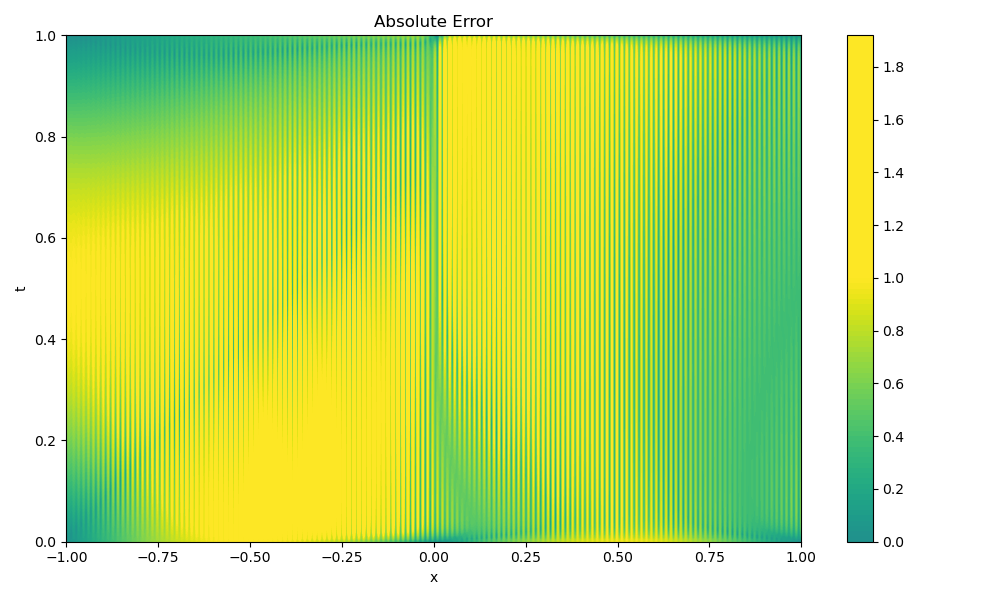
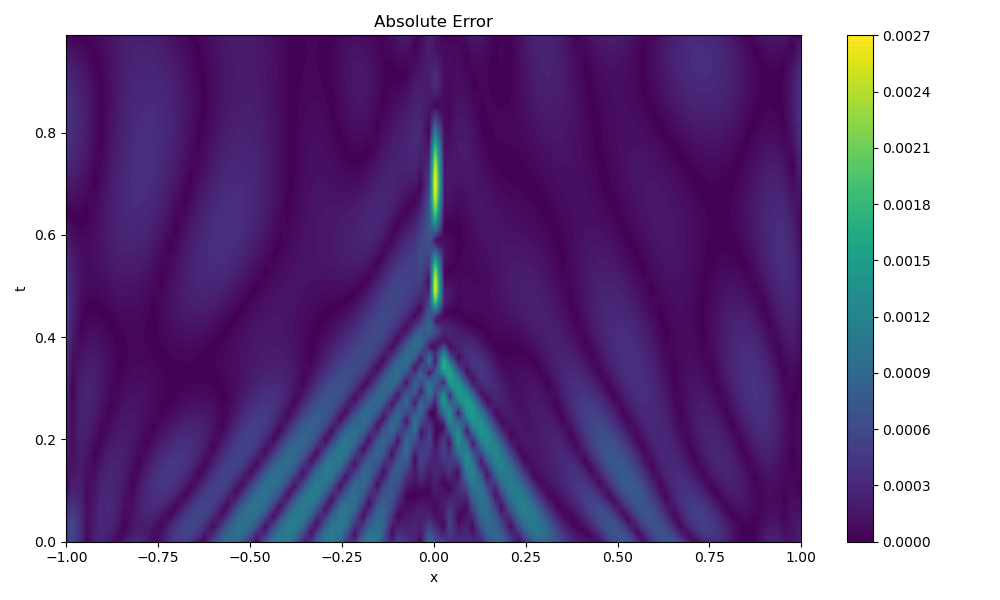
l2 error 5e-4

diff --git a/moe_module/moe.py b/moe_module/moe.py
@@ -127,14 +127,15 @@ class Gating(nn.Module):
     def __init__(self,input_size,num_experts,noise_epsilon=1e-6,gamma=1,R=1):
         super(Gating, self).__init__()
         self.net=nn.Sequential(
-            nn.Linear(input_size,num_experts),
+            nn.Linear(input_size,num_experts*5),
             nn.Tanh(),
-            nn.Linear(num_experts,num_experts),
+            nn.Linear(num_experts*5,num_experts),
             #[I,H]
         )
         self.noisy=nn.Linear(input_size,num_experts)
         self.softplus = nn.Softplus()
         self.noise_epsilon=noise_epsilon
+        
         
 
                 
@@ -196,8 +197,12 @@ class MoE(nn.Module):
         self.softmax = nn.Softmax(dim=-1)
         self.gating_network = Gating(self.input_size,self.num_experts)
     
-    def smoothing(self):
+    def smoothing(self,step,step_lb):
         self.smooth = not self.smooth
+        if step >=step_lb:
+            self.smooth = True
+        # for p in self.gating_network.parameters():
+        #     p.requires_grad = self.smooth
         
     def _prob_in_top_k(self, clean_values, noisy_values, noise_stddev, noisy_top_values):
         """Helper function to NoisyTopKGating.
@@ -264,10 +269,11 @@ class MoE(nn.Module):
     def topkGating(self,x,train):
             ## topk--> softmax
             noisy,clean,noisy_stddev=self.gating_network(x,train)
-            
-            values, indices= torch.topk(noisy,k=self.k,dim=-1) 
-            # top_logits,_=torch.topk(noisy,k=self.k+1,dim=-1) #values: [k,] indices: [k,] zhou's mode
+            values=noisy
             values=self.softmax(values)
+            values, indices= torch.topk(values,k=self.k,dim=-1) 
+            # top_logits,_=torch.topk(noisy,k=self.k+1,dim=-1) #values: [k,] indices: [k,] zhou's mode
+            # values=values/(values.sum(1, keepdim=True) + 1e-8)  # normalization
             # values= values / (values.sum(1, keepdim=True) + 1e-8) 
             zeros= torch.zeros_like(noisy, requires_grad=True)
             gates=zeros.scatter(1, indices, values)
@@ -289,8 +295,8 @@ class MoE(nn.Module):
             
             return gates,load
         
-    def soft_topk(self,s: torch.Tensor,k: int,tau1: float = 5e-2,tau2: float = 5e-2):
-        
+    def soft_topk(self,s: torch.Tensor,k: int,tau1: float = 5e-2,tau2: float = 1e-1):
+        s=F.softmax(s,dim=-1)
         diff = torch.unsqueeze(s,-1) - torch.unsqueeze(s,-2)
         sigma = torch.sigmoid(-diff / tau1)
         row_sum = sigma.sum(dim=-1) - 0.5
@@ -299,7 +305,8 @@ class MoE(nn.Module):
         a = torch.sigmoid((k+eps - r_tilde) / tau2)     
 
         a=a*s
-        a=F.softmax(a,dim=-1)
+        # a=a/(a.sum(1, keepdim=True) + 1e-8)
+        
 
         return a
     def forward(self,x,train):
@@ -419,18 +426,18 @@ class MOE_modify_beta(nn.Module):
         self.register_buffer("lb", torch.as_tensor(lb))
         self.register_buffer("ub", torch.as_tensor(ub))
         # === 2⃣ Beta 网络（可调 depth） ===
-        layers = []
-        in_dim = input_size
-        # 如果 depth = 1，则只有一层线性映射
-        for i in range(2):
-            layers.append(nn.Linear(in_dim, hidden_size))
-            layers.append(nn.ReLU())
-            in_dim = hidden_size
+        # layers = []
+        # in_dim = input_size
+        # # 如果 depth = 1，则只有一层线性映射
+        # for i in range(1):
+        #     layers.append(nn.Linear(in_dim, hidden_size))
+        #     layers.append(nn.ReLU())
+        #     in_dim = hidden_size
 
-        layers.append(nn.Linear(hidden_size, hidden_size,bias=False))
-        self.Beta = nn.Sequential(*layers)
+        # layers.append(nn.Linear(hidden_size, hidden_size,bias=False))
+        # self.Beta = nn.Sequential(*layers)
         
-        # self.linear=nn.Linear(hidden_size, output_size)
+        self.linear=nn.Linear(hidden_size, output_size)
         
 
         
@@ -462,9 +469,9 @@ class MOE_modify_beta(nn.Module):
     def forward(self, x):
         x = 2.0 * (x - self.lb) / (self.ub - self.lb) - 1.0
         output,loss1=self.model(x, self.training)
-        beta=self.Beta(x)
-        output=(output*beta).sum(dim=1,keepdim=True)
-        # output=self.linear(output)
+        # beta=self.Beta(x)
+        # output=(output*beta).sum(dim=1,keepdim=True)
+        output=self.linear(output)
         loss=loss1
         return output,loss
     

diff --git a/main.py b/main.py
@@ -43,26 +43,35 @@ def pde_residual(model, x_t, nu, moe_training=True):
 
     r = u_t + u * u_x - nu * u_xx
     return r
+
 @log_with_time
 def train_loop(X_init, X_bnd, X_f, X_total, u_init, model,loss_fn, optim, args,steps=100,moe_training=True,writer=None):
     scheduler = StepLR(optim, step_size=100, gamma=args.lr_decay)
     activation=get_activation(args.activation)
     aux_loss,init_loss,bnd_loss,f_loss= 0,0,0,0
     total_loss_list,total_rank_list,total_useless_expert_rank=[],[],[]
-    for step in range(steps):
+    step_count=args.smooth_steps
+    for step in range(steps): 
+        if moe_training :
+            step_count -=1
+            if model.moe.smooth and step_count<=0:
+                model.moe.smoothing(step,args.smooth_lb)
+                step_count=args.smooth_steps
+            elif step_count<=0 :
+                model.moe.smoothing(step,args.smooth_lb)
+                step_count=args.smooth_steps
         if step % 500 == 0:
             eval_model(step,X_init, X_bnd, X_f, X_total, u_init, model, loss_fn,moe_training,args,writer)
             if moe_training:
                 gates_image(model,args.X_test,writer)
-                beta_image(model,args.X_test,writer)
-                if step >0: 
-                    model.moe.smoothing()
+                # beta_image(model,args.X_test,writer)
+
                     
                     # model.frozen_beta()
             #update points
-            args.seed=args.seed+step
-            torch.manual_seed(args.seed)
-            X_init,X_bnd,X_f,X_total,u_init=_init_data_dim1(args.init_func,args.x_interval,args.t_interval,args.x_num_samples,args.t_num_samples,args.device,args)
+            # args.seed=args.seed+step
+            # torch.manual_seed(args.seed)
+            # X_init,X_bnd,X_f,X_total,u_init=_init_data_dim1(args.init_func,args.x_interval,args.t_interval,args.x_num_samples,args.t_num_samples,args.device,args)
         
         optim.zero_grad()
         # 确保在训练模式
@@ -164,7 +173,7 @@ def eval_model(step,X_init, X_bnd, X_f, X_total, u_init, model, loss_fn,moe_trai
     loss = args.loss_coef_init *init_loss + args.loss_coef_bnd * bnd_loss + f_loss
 
     if moe_training:
-        tqdm.write("MoE_Model Evaluation Results - loss: {:.8f}, aux_loss: {:.8f}".format(loss.item(), aux_loss.item()))
+        tqdm.write("MoE_Model Evaluation Results - step : {:1d}loss: {:.8f}, aux_loss: {:.8f}".format(step,loss.item(), aux_loss.item()))
     else:
         tqdm.write("MLP_Model Evaluation Results - loss: {:.8f}".format(loss.item()))
 
@@ -262,6 +271,7 @@ def main():
     loss_fn =get_loss_fn(args.lossfn)
     
     model_moe=MOE_modify_beta(args.input_size, args.num_experts,args.hidden_size,args.depth, args.output_size,args.k,args.loss_coef, activation).to(args.device)
+    model_moe.load_state_dict(torch.load('saved_model/model_moe20251107_053752.pth'))
     optimizer = get_optimizer(args.optim,model_moe.parameters(), lr=args.lr)
     model,total_loss_list_moe,rank_list_moe,total_useless_expert_rank_moe=train_loop(data_X_init,data_X_bnd,data_X_f,data_X_total,data_u_init,\
         model_moe,loss_fn, optimizer, args,args.opt_steps,moe_training=True, writer=writer)
@@ -274,6 +284,7 @@ def main():
     #     model_mlp,loss_fn, optimizer_mlp, args,args.opt_steps,moe_training=False,writer=writer)
     # eval_model(args.opt_steps+args.lbfgs_steps,data_X_init,data_X_bnd,data_X_f,data_X_total,data_u_init, model_mlp, loss_fn,moe_training=False,args=args,writer=writer)
     # plot_dual_axis(np.array(total_loss_list_mlp),None,args.opt_steps+args.lbfgs_steps,"mlp")
+
     
 
 if __name__ == "__main__":

diff --git a/moe_module/utils.py b/moe_module/utils.py
@@ -16,23 +16,23 @@ from data import *
 def parse_args():
     parser = argparse.ArgumentParser(description="Train a Mixture-of-Experts model.")
     parser.add_argument("--epochs", type=int, default=10, help="Number of training epochs.")
-    parser.add_argument("--lr", type=float, default=8e-3, help="Learning rate.")
+    parser.add_argument("--lr", type=float, default=2e-3, help="Learning rate.")
     parser.add_argument("--device", type=str, default="cuda:5" if torch.cuda.is_available() else "cpu", help="Device to train on.")    
     parser.add_argument("--input_size", type=int, default=2,help="Input size (funcion approximation x) ")
     parser.add_argument("--output_size", type=int, default=1,help="Output size (funcion approximation y=u(x)) ")
-    parser.add_argument("--num_experts", type=int, default=4,help="Number of experts")
+    parser.add_argument("--num_experts", type=int, default=2,help="Number of experts")
     parser.add_argument("--hidden_size", type=int, default=10,help="Hidden size of each expert")
-    parser.add_argument("--depth", type=int, default=5,help="Depth of the MOE model")
+    parser.add_argument("--depth", type=int, default=10,help="Depth of the MOE model")
     parser.add_argument("--lossfn", type=str, default="mse", help="Loss function.")
     parser.add_argument("--optim", type=str, default="adam")
-    parser.add_argument("--opt_steps", type=int, default=30000)
+    parser.add_argument("--opt_steps", type=int, default=100000)
     parser.add_argument("--activation", type=str, default="tanh", help="activation_function")
     parser.add_argument("--init_func", type=str, default="-sin(pi*x)", help="function")
     parser.add_argument("--x_interval", type=str, default="[-1,1]")
     parser.add_argument("--t_interval", type=str, default="[0,1]")
     parser.add_argument("--x_num_samples", type=int, default=200)
     parser.add_argument("--t_num_samples", type=int, default=100)
-    parser.add_argument("--k", type=int, default=2,help="top-k selection")
+    parser.add_argument("--k", type=int, default=1,help="top-k selection")
     parser.add_argument("--loss_coef", type=float, default=1)
     parser.add_argument("--x_integral_sample", type=int, default=200, help="x_integral_sample")
     parser.add_argument("--t_integral_sample", type=int, default=100, help="t_integral_sample")
@@ -45,9 +45,11 @@ def parse_args():
     parser.add_argument("--vxn",type=int,default=100)
     parser.add_argument("--gt",type=torch.Tensor,default=None,help="ground truth")
     parser.add_argument("--X_test",type=torch.Tensor,default=None,help="test data")
-    parser.add_argument("--lr_decay",type=float,default=0.98,help="lr decay")
+    parser.add_argument("--lr_decay",type=float,default=0.996,help="lr decay")
     parser.add_argument("--lbfgs_steps",type=int,default=0,help="number of steps for lbfgs")
     parser.add_argument("--seed",type=int,default=1234)
+    parser.add_argument("--smooth_steps",type=int,default=5,help="number of steps for smooth mode")
+    parser.add_argument("--smooth_lb",type=int,default=5000,help="number lower bound of steps for smooth mode")
     return parser.parse_args()
 def _init_data_dim1(func: str, x_interval: str, t_interval: str, x_num_samples: int, t_num_samples: int, device,args):
     """
